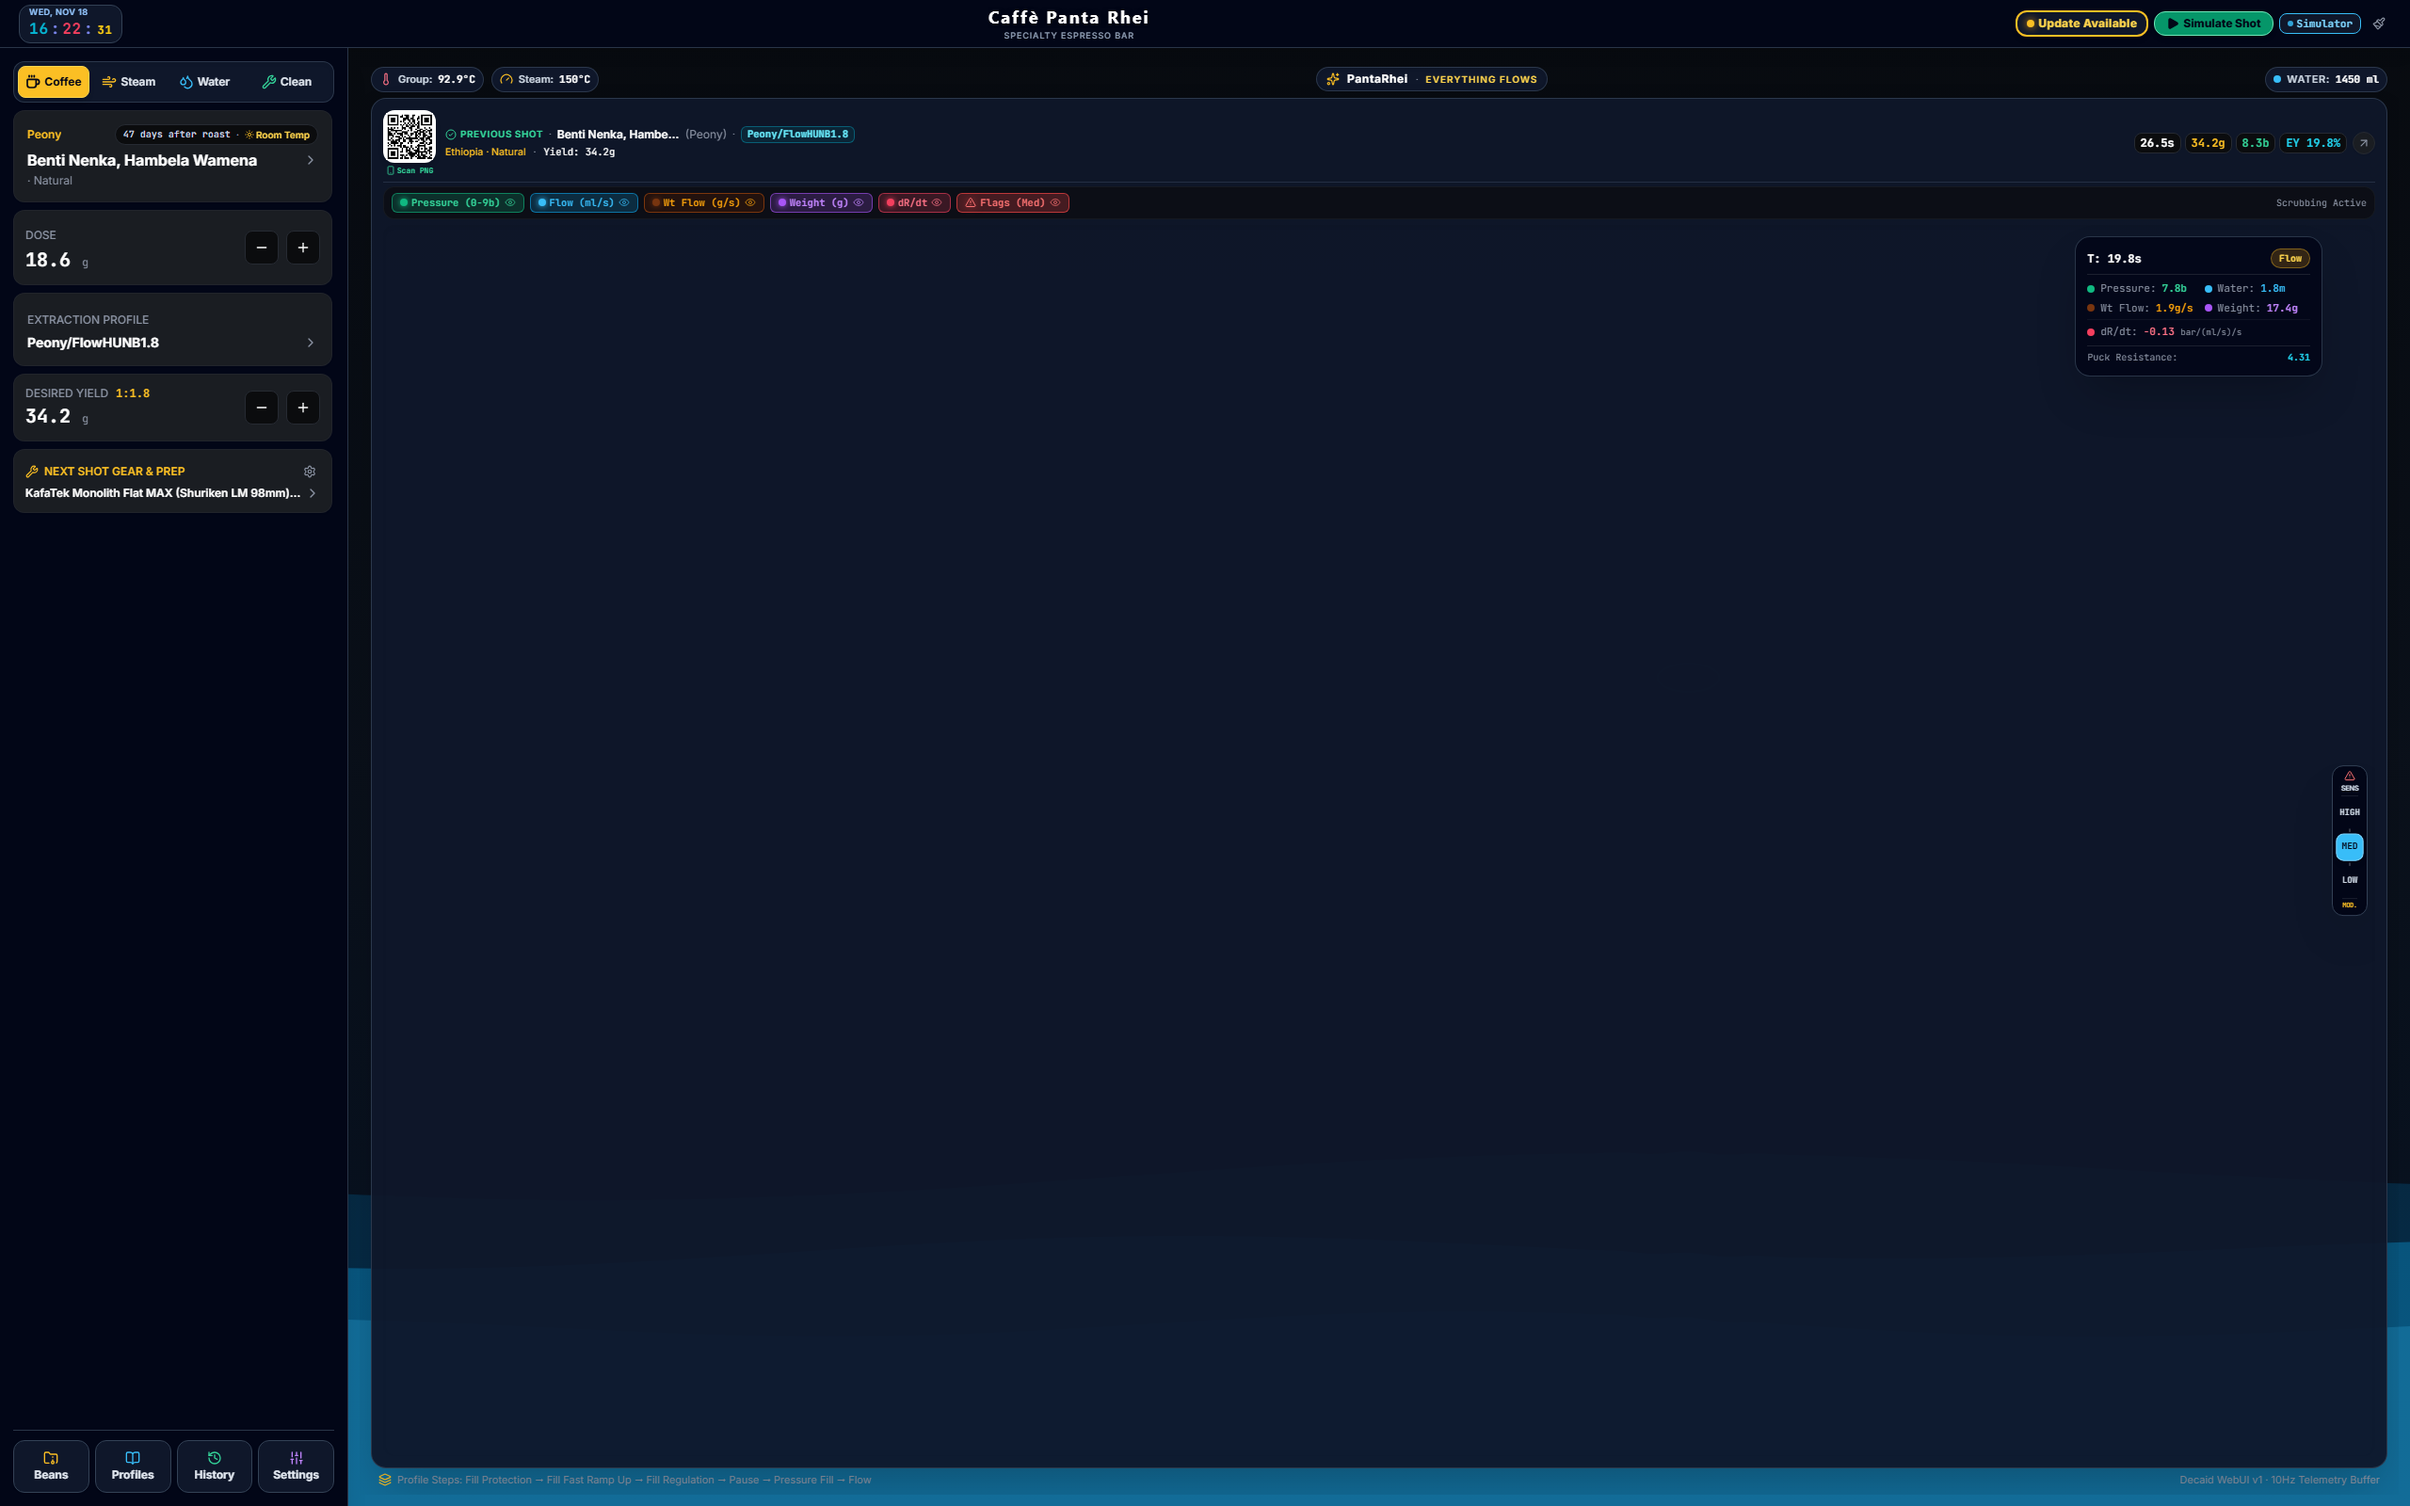
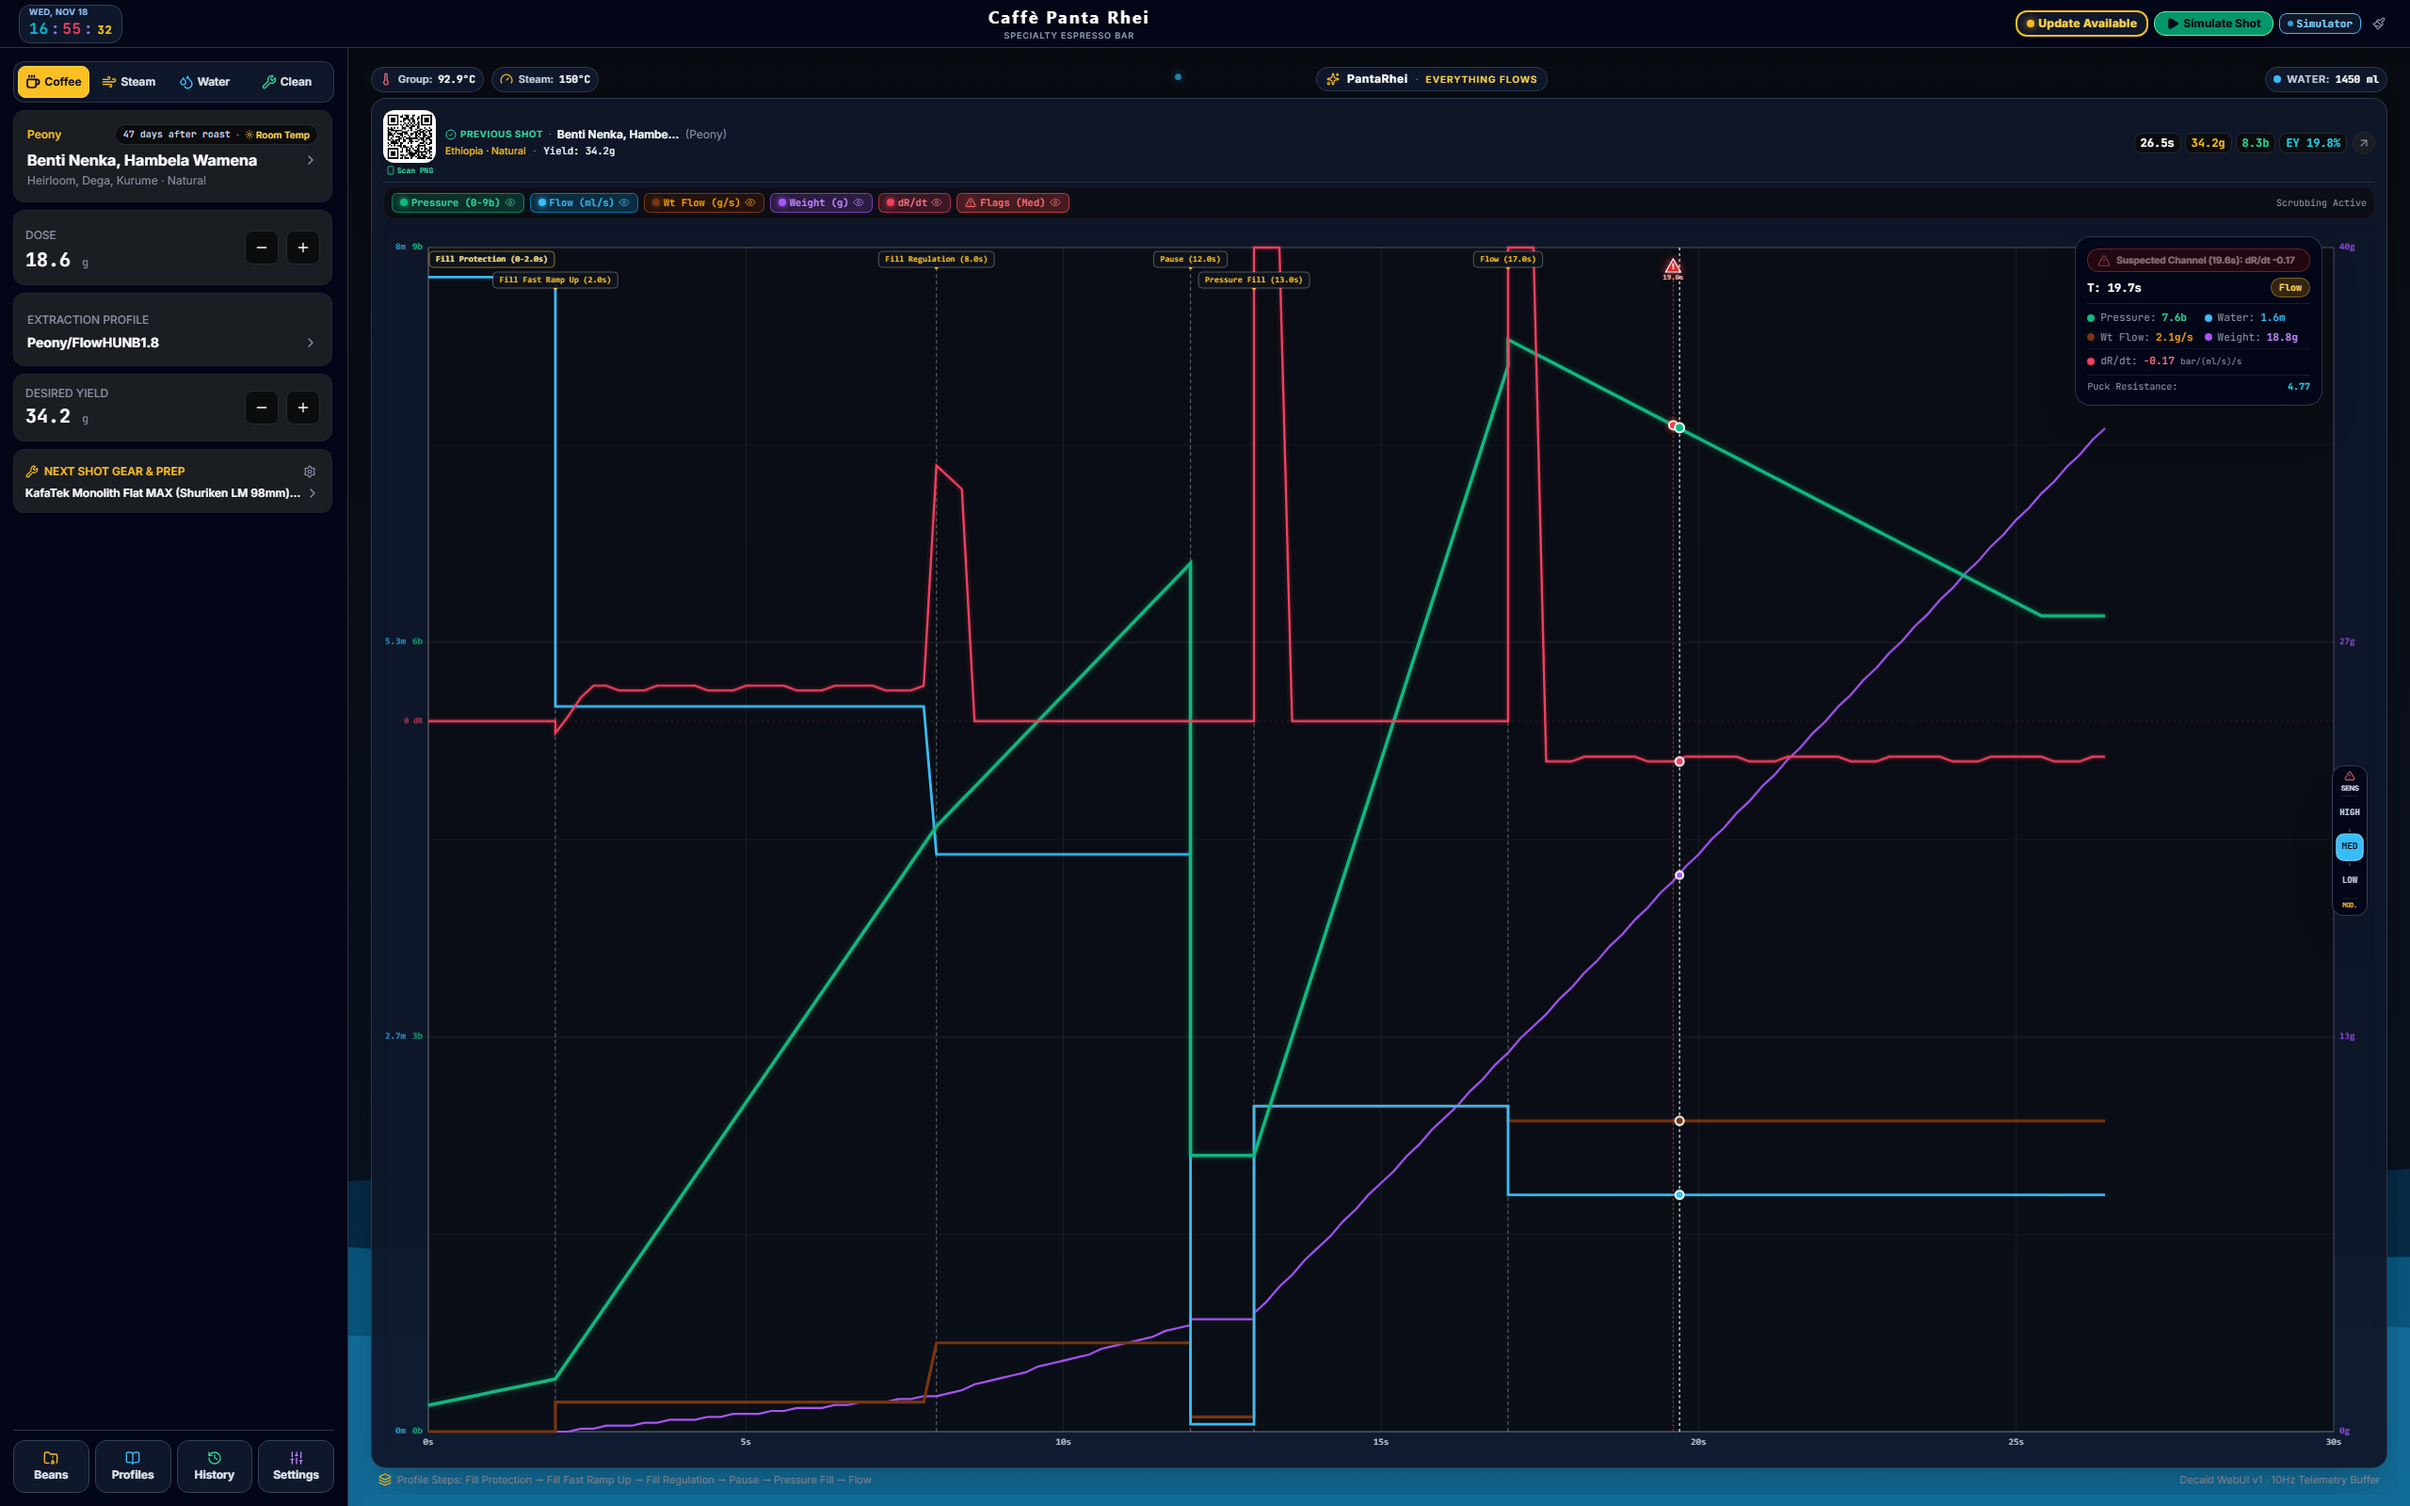
feat(workflow): synchronize active profile to Decaid Gateway via PUT /api/v1/workflow and re-render shot inspection screenshot

diff --git a/src/App.tsx b/src/App.tsx
@@ -900,6 +900,43 @@ export function App() {
                     try {
                       localStorage.setItem("pantarhei_active_bean_id", selected.id);
                     } catch {}
+
+                    // Automatically load bean's preferred profile and communicate to Decaid
+                    const customProfs = loadCustomProfilesFromStorage();
+                    const targetProfId = selected.preferredProfileId || selected.preferredProfileTitle;
+                    if (targetProfId) {
+                      const matchedProf = customProfs.find(
+                        (p) =>
+                          p.id === targetProfId ||
+                          p.title.toLowerCase() === targetProfId.toLowerCase()
+                      );
+                      if (matchedProf) {
+                        setActiveProfileTitle(matchedProf.title);
+                        setActiveProfile(matchedProf);
+                        decaid.selectProfile(matchedProf, {
+                          dose: selected.targetDose || coffeeConfig.dose,
+                          targetYield: selected.targetYield || coffeeConfig.targetYield,
+                          coffeeName: selected.name,
+                          coffeeRoaster: selected.roaster,
+                          grinderModel: activeEquipment?.grinder,
+                        });
+                        setCoffeeConfig((prev) => ({
+                          ...prev,
+                          profileId: matchedProf.id || matchedProf.title,
+                          targetYield: Number(matchedProf.target_weight) || prev.targetYield,
+                          dose: Number(matchedProf.target_dose) || prev.dose,
+                        }));
+                      }
+                    } else if (activeProfile) {
+                      // Update Decaid workflow context with new bean metadata
+                      decaid.selectProfile(activeProfile, {
+                        dose: selected.targetDose || coffeeConfig.dose,
+                        targetYield: selected.targetYield || coffeeConfig.targetYield,
+                        coffeeName: selected.name,
+                        coffeeRoaster: selected.roaster,
+                        grinderModel: activeEquipment?.grinder,
+                      });
+                    }
                     setMainPaneView("graph");
                   }}
                   onSaveBean={(newBean) => {
@@ -921,12 +958,20 @@ export function App() {
                   onSelectProfile={(p) => {
                     setActiveProfileTitle(p.title);
                     setActiveProfile(p);
-                    decaid.selectProfile(p);
+                    const targetDose = Number(p.target_dose) || coffeeConfig.dose;
+                    const targetYield = Number(p.target_weight) || coffeeConfig.targetYield;
+                    decaid.selectProfile(p, {
+                      dose: targetDose,
+                      targetYield: targetYield,
+                      coffeeName: activeBean?.name,
+                      coffeeRoaster: activeBean?.roaster,
+                      grinderModel: activeEquipment?.grinder,
+                    });
                     setCoffeeConfig((prev) => ({
                       ...prev,
                       profileId: p.id || p.title,
-                      targetYield: Number(p.target_weight) || prev.targetYield,
-                      dose: Number(p.target_dose) || prev.dose,
+                      targetYield: targetYield || prev.targetYield,
+                      dose: targetDose || prev.dose,
                     }));
                     try {
                       localStorage.setItem("pantarhei_active_profile_title", p.title);
@@ -995,6 +1040,23 @@ export function App() {
                     if (selectedShot.equipment) {
                       setActiveEquipment(selectedShot.equipment);
                       saveActiveEquipment(selectedShot.equipment);
+                    }
+
+                    // Communicate profile & shot recipe to Decaid
+                    const customProfs = loadCustomProfilesFromStorage();
+                    const matchedProf = customProfs.find(
+                      (p) => p.title.toLowerCase() === selectedShot.profileTitle.toLowerCase()
+                    );
+                    if (matchedProf) {
+                      setActiveProfile(matchedProf);
+                      decaid.selectProfile(matchedProf, {
+                        dose: selectedShot.actualDose,
+                        targetYield: selectedShot.targetYield,
+                        coffeeName: selectedShot.beanName,
+                        coffeeRoaster: selectedShot.roaster,
+                        grinderModel: selectedShot.equipment?.grinder,
+                        grinderSetting: selectedShot.grindSetting,
+                      });
                     }
                     setMainPaneView("graph");
                   }}

diff --git a/src/services/decaidConnection.ts b/src/services/decaidConnection.ts
@@ -641,20 +641,85 @@ export class DecaidClient {
   }
 
   // Hardware Command Actions
-  public async selectProfile(profile: ProfileItem): Promise<void> {
+  public async selectProfile(
+    profile: ProfileItem,
+    context?: {
+      dose?: number;
+      targetYield?: number;
+      coffeeName?: string;
+      coffeeRoaster?: string;
+      grinderModel?: string;
+      grinderSetting?: string;
+    }
+  ): Promise<boolean> {
     simulator.setProfile(profile);
+
+    // Format profile for Decaid OpenAPI schema
+    const v2Profile = serializeToDecaidV2(profile);
+
+    const targetYield =
+      context?.targetYield != null
+        ? Number(context.targetYield)
+        : profile.target_weight != null
+        ? Number(profile.target_weight)
+        : 36.0;
+
+    const targetDose =
+      context?.dose != null
+        ? Number(context.dose)
+        : profile.target_dose != null
+        ? Number(profile.target_dose)
+        : undefined;
+
+    const workflowPayload: Record<string, any> = {
+      name: profile.title,
+      profile: {
+        ...v2Profile,
+        target_weight: isNaN(targetYield) ? 36.0 : targetYield,
+        target_volume: Number(profile.target_volume) || 0.0,
+        tank_temperature: Number(profile.target_temperature) || 0.0,
+      },
+      context: {
+        targetYield: isNaN(targetYield) ? 36.0 : targetYield,
+        ...(targetDose && !isNaN(targetDose) ? { targetDoseWeight: targetDose } : {}),
+        ...(context?.coffeeName ? { coffeeName: context.coffeeName } : {}),
+        ...(context?.coffeeRoaster ? { coffeeRoaster: context.coffeeRoaster } : {}),
+        ...(context?.grinderModel ? { grinderModel: context.grinderModel } : {}),
+        ...(context?.grinderSetting ? { grinderSetting: context.grinderSetting } : {}),
+      },
+    };
+
+    let success = false;
+
+    // 1. Send PUT /api/v1/workflow to Decaid Gateway (recommended official endpoint)
+    try {
+      const res = await fetch(`${this.baseUrl}/api/v1/workflow`, {
+        method: "PUT",
+        headers: { "Content-Type": "application/json" },
+        body: JSON.stringify(workflowPayload),
+      });
+      if (res.ok) {
+        success = true;
+        console.log(`[DecaidClient] Active workflow updated to profile "${profile.title}"`);
+      }
+    } catch (e) {
+      console.warn("[DecaidClient] PUT /api/v1/workflow failed:", e);
+    }
+
+    // 2. If connected to physical machine, also attempt direct machine register upload
     if (this.isLiveMachineConnected) {
       try {
-        const v2Json = serializeToDecaidV2(profile);
-        await fetch(`${this.baseUrl}/api/v1/profiles/active`, {
-          method: "PUT",
+        await fetch(`${this.baseUrl}/api/v1/machine/profile`, {
+          method: "POST",
           headers: { "Content-Type": "application/json" },
-          body: JSON.stringify(v2Json),
+          body: JSON.stringify(workflowPayload.profile),
         });
       } catch (e) {
-        console.warn("Decaid live select profile failed:", e);
+        // Machine profile write queue error or handled by workflow
       }
     }
+
+    return success;
   }
 
   public isULSafetyRestricted(): boolean {
